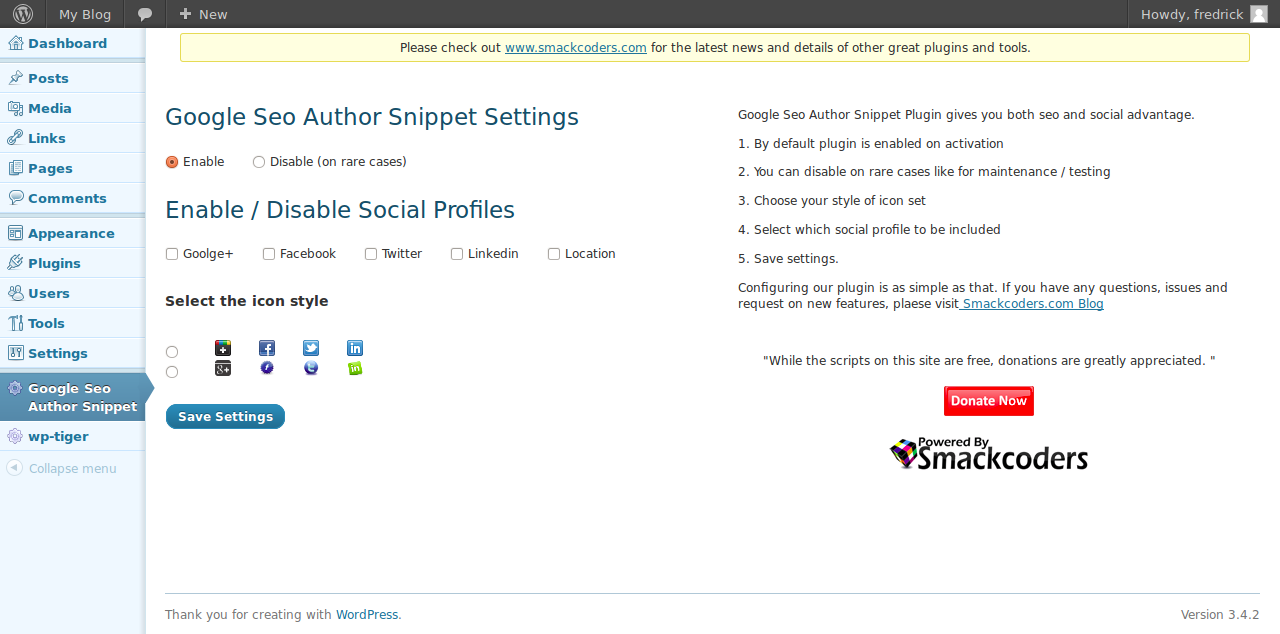
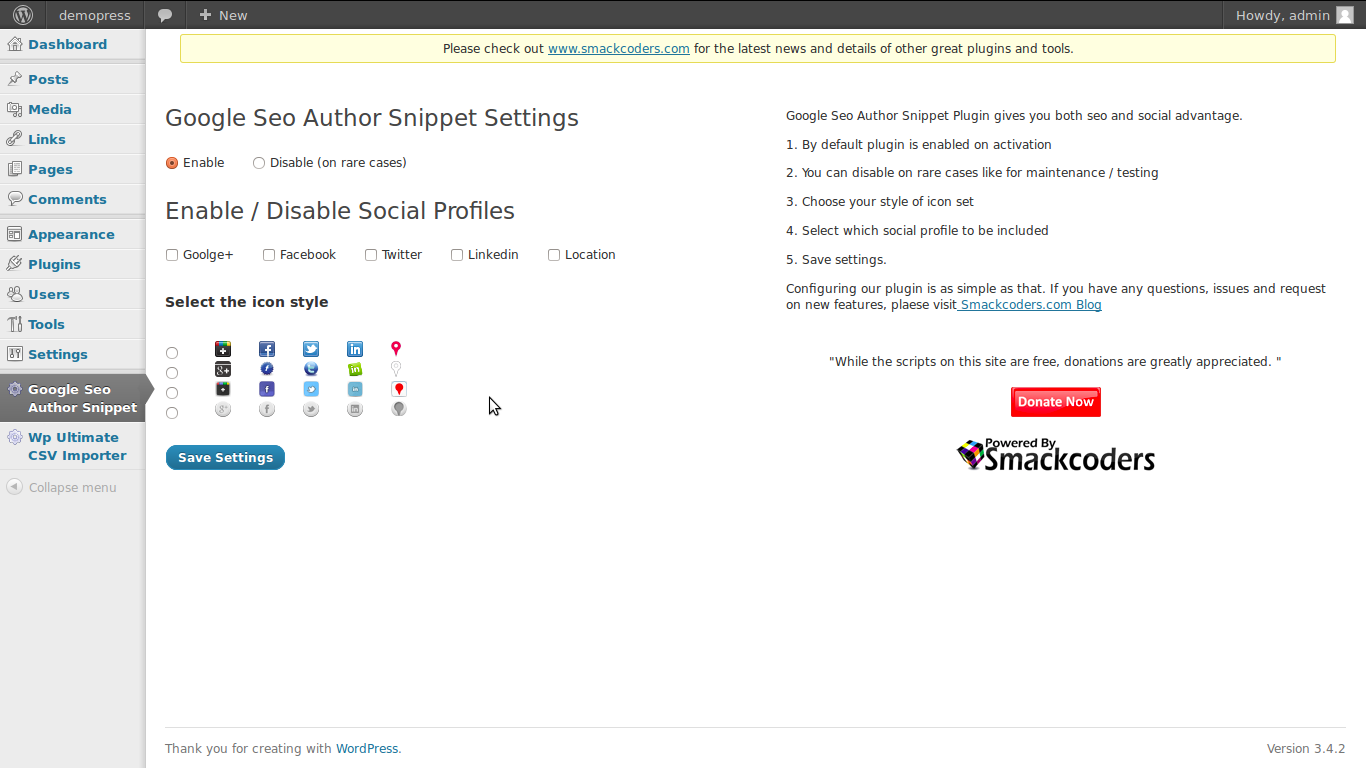
Updated version of the plugin v 1.0.1
git-svn-id: https://plugins.svn.wordpress.org/google-seo-author-snippets/trunk@613633 b8457f37-d9ea-0310-8a92-e5e31aec5664

diff --git a/google_seo_autho_snippet_plugin.php b/google_seo_autho_snippet_plugin.php
@@ -3,7 +3,7 @@
 *Plugin Name: Google Seo Author Snippet Plugin
 *Plugin URI: http://www.smackcoders.com/google-seo-author-snippet-wordpress-plugin.html
 *Description: A plugin that Manages the user's social profile details
-*Version: 1.0.0
+*Version: 1.0.1
 *Author: smackcoders.com
 *Author URI: http://www.smackcoders.com
 *
@@ -27,32 +27,57 @@
 ***********************************************************************************************
 */
 
-define('SMACK_IMAGE_URL', get_bloginfo('wpurl').'/wp-content/plugins/google_seo_autho_snippet_plugin/images/');
+define('SMACK_IMAGE_URL', get_bloginfo('wpurl').'/wp-content/plugins/google-seo-author-snippets-plugin/images/');
 
 $FieldNames[0] = array(
-		'g_image' => 'googleplus_img0.png',
+		'g_image' => 'googleplus-icon-setone.png',
 		'g_image_url' => SMACK_IMAGE_URL,
-		'f_image' => 'facebook_img0.png',
+		'f_image' => 'facebook-icon-setone.png',
 		'f_image_url' => SMACK_IMAGE_URL,
-		't_image' => 'twitter_img0.png',
+		't_image' => 'twitter-icon-setone.png',
 		't_image_url' => SMACK_IMAGE_URL,
-		'l_image' => 'linkedin_img0.png',
+		'l_image' => 'linkedin-icon-setone.png',
 		'l_image_url' => SMACK_IMAGE_URL,
-		'location_image' => 'locator_pink.png',
+		'location_image' => 'locator-icon-setone.png',
 		'location_url' => SMACK_IMAGE_URL,
 	);	
 $FieldNames[1] = array(
-		'g_image' => 'googleplus_img1.png',
+		'g_image' => 'googleplus-icon-settwo.png',
 		'g_image_url' => SMACK_IMAGE_URL,
-		'f_image' => 'facebook_img1.png',
+		'f_image' => 'facebook-icon-settwo.png',
 		'f_image_url' => SMACK_IMAGE_URL,
-		't_image' => 'twitter_img1.png',
+		't_image' => 'twitter-icon-settwo.png',
 		't_image_url' => SMACK_IMAGE_URL,
-		'l_image' => 'linkedin_img1.png',
+		'l_image' => 'linkedin-icon-settwo.png',
 		'l_image_url' => SMACK_IMAGE_URL,
-		'location_image' => 'locator_pink.png',
+		'location_image' => 'locator-icon-settwo.png',
 		'location_url' => SMACK_IMAGE_URL,
 	);	
+$FieldNames[2] = array(
+		'g_image' => 'googleplus-icon-setthree.png',
+		'g_image_url' => SMACK_IMAGE_URL,
+		'f_image' => 'facebook-icon-setthree.png',
+		'f_image_url' => SMACK_IMAGE_URL,
+		't_image' => 'twitter-icon-setthree.png',
+		't_image_url' => SMACK_IMAGE_URL,
+		'l_image' => 'linkedin-icon-setthree.png',
+		'l_image_url' => SMACK_IMAGE_URL,
+		'location_image' => 'locator-icon-setthree.png',
+		'location_url' => SMACK_IMAGE_URL,
+	);	
+$FieldNames[3] = array(
+		'g_image' => 'googleplus-icon-setfour.png',
+		'g_image_url' => SMACK_IMAGE_URL,
+		'f_image' => 'facebook-icon-setfour.png',
+		'f_image_url' => SMACK_IMAGE_URL,
+		't_image' => 'twitter-icon-setfour.png',
+		't_image_url' => SMACK_IMAGE_URL,
+		'l_image' => 'linkedin-icon-setfour.png',
+		'l_image_url' => SMACK_IMAGE_URL,
+		'location_image' => 'locator-icon-setfour.png',
+		'location_url' => SMACK_IMAGE_URL,
+	);	
+
 register_deactivation_hook( __FILE__, 'deactivate_now' );
 function deactivate_now()
 {
@@ -78,5 +103,5 @@ function admin_menus() {
 }  
    add_action("admin_menu", "admin_menus"); 
 
-wp_enqueue_script("microdata_configuration_page", "/wp-content/plugins/google_seo_autho_snippet_plugin/js/smack-microdata.js", array("jquery"));
+wp_enqueue_script("microdata_configuration_page", "/wp-content/plugins/google-seo-author-snippets-plugin/js/smack-microdata.js", array("jquery"));
 ?>

diff --git a/microdata_form.php b/microdata_form.php
@@ -42,12 +42,14 @@ $config = get_option('smack_microdata_imageset');
 						$fimg=$array[f_image_url].$array[f_image];
 						$timg=$array[t_image_url].$array[t_image];
 						$limg=$array[l_image_url].$array[l_image];
+						$loc=$array[location_url].$array[location_image];
 					?>
 						<input type="radio" id="imageset<?php echo $id; ?>" name="imageset" value="Imageset<?php echo $id; ?>" <?php if($id == $img_set['imageset']) {?> Checked <?php } ?>/> &nbsp; &nbsp; &nbsp; &nbsp;
 						<span><img src="<?php echo $gimg; ?>" /></span> &nbsp; &nbsp; &nbsp;
 						<span><img src="<?php echo $fimg; ?>" /></span> &nbsp; &nbsp; &nbsp;
 						<span><img src="<?php echo $timg; ?>" /></span> &nbsp; &nbsp; &nbsp;
-						<span><img src="<?php echo $limg; ?>" /></span> &nbsp; &nbsp; &nbsp;</br>
+						<span><img src="<?php echo $limg; ?>" /></span> &nbsp; &nbsp; &nbsp;
+						<span><img src="<?php echo $loc ; ?>" /></span> &nbsp; &nbsp; &nbsp;</br>
 					<?php
 						$id++;
 					}
